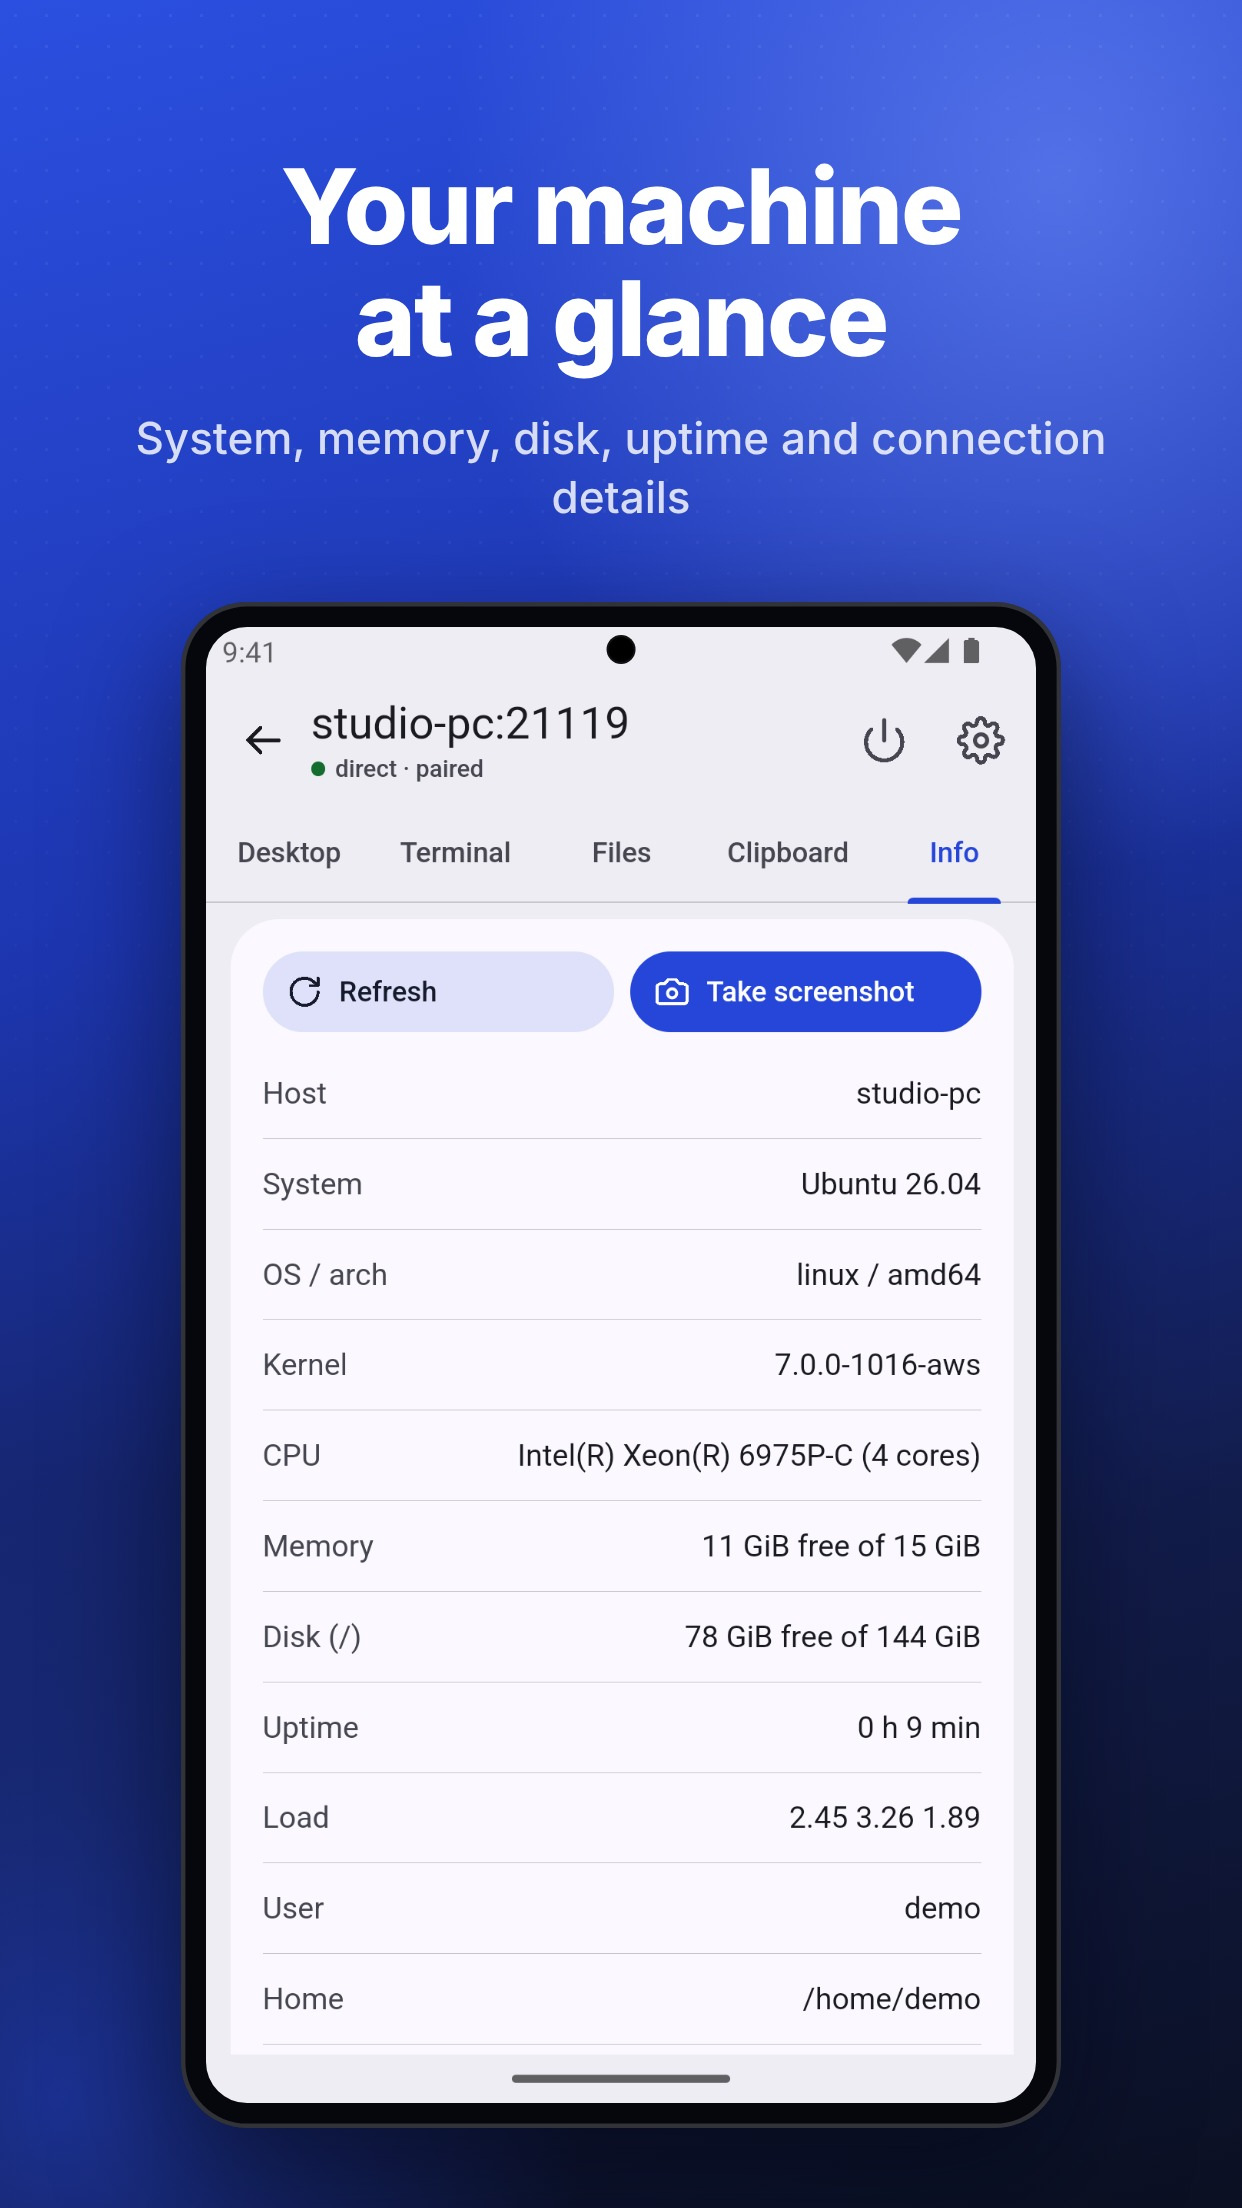
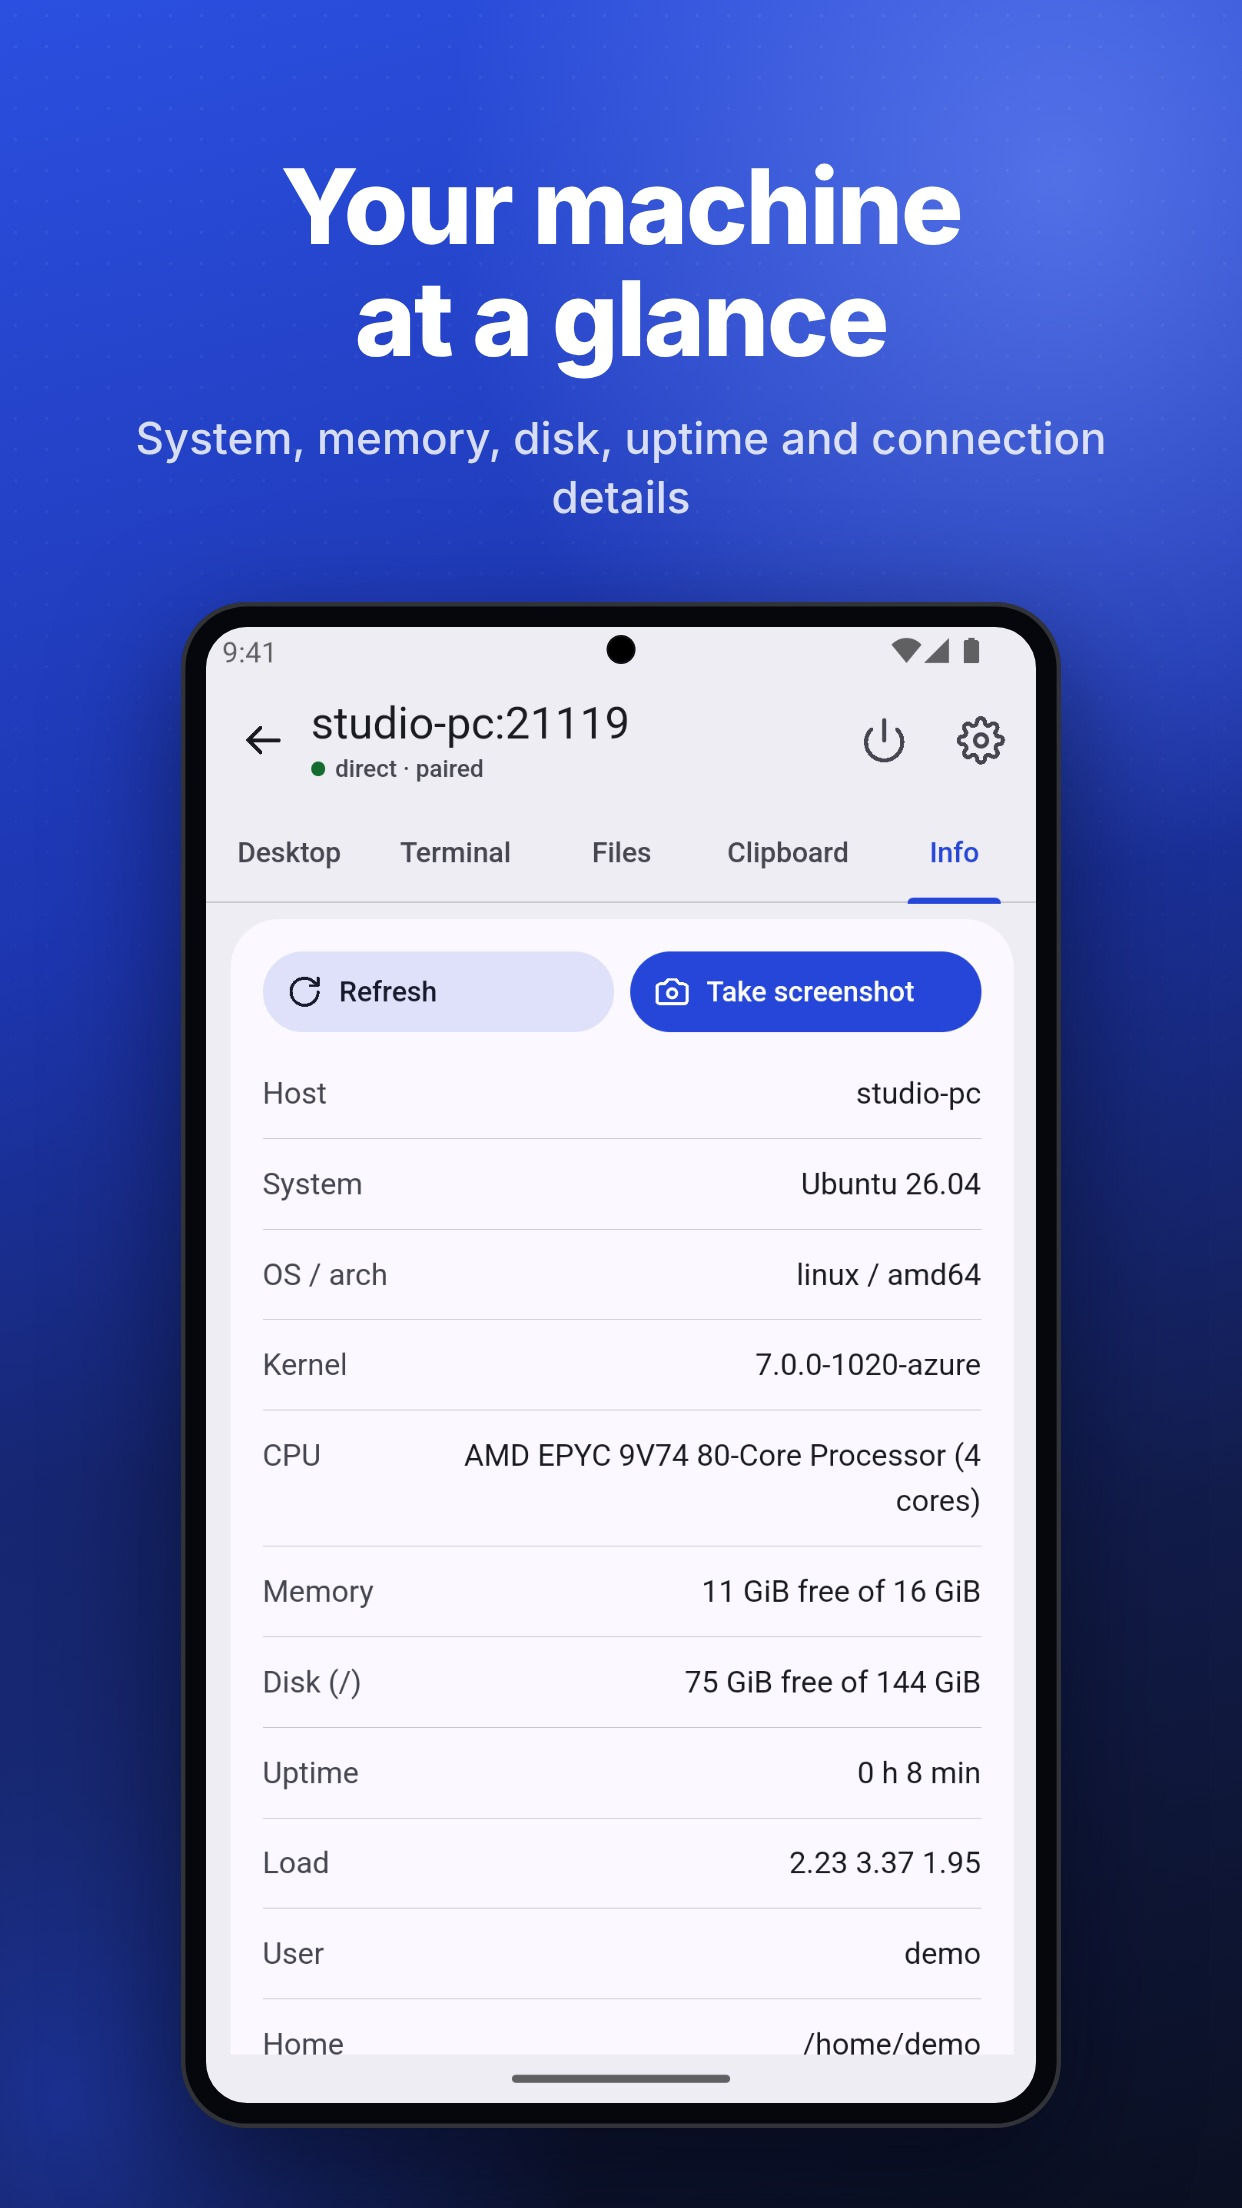
Play posters: captures from CI run 45542352192 (the demo desktop's windows side by side)
Claude-Session: https://claude.ai/code/session_014jsEHinC4ceXZQrRCy7UyV

Changed region(s): [[0.3671, 0.6562, 0.7955, 0.9375], [0.2142, 0.6875, 0.306, 0.9375], [0.6119, 0.5938, 0.7649, 0.625]]

diff --git a/mobile/android/store/art/README.md b/mobile/android/store/art/README.md
@@ -10,7 +10,7 @@ Locales are `en-US` and `zh-CN`.
 
 ## Captures
 
-`src/<locale>/<n>-<screen>.webp` are captures of the real app made by CI, nothing by hand: the CI repository's `sodesk-android.yml` with `screenshots=only` runs `StoreScreenshotsTest` on a 1080 × 1920 emulator against a `remohop host` on a demo machine (host name `studio-pc`, user `demo`, made-up files, an Xvfb desktop), and keeps the PNGs as the artifact `remohop-play-screenshots`. To refresh them, download that artifact and convert:
+`src/<locale>/<n>-<screen>.webp` are captures of the real app made by CI, nothing by hand: the CI repository's `sodesk-android.yml` with `screenshots=only` runs `StoreScreenshotsTest` on a 1080 × 1920 emulator against a `remohop host` on a demo machine (host name `studio-pc`, user `demo`, made-up files, an Xvfb desktop), and keeps the PNGs as the artifact `remohop-play-screenshots` (the set here: test-env-setup run 45542352192). To refresh them, download that artifact and convert:
 
 ```bash
 python3 -c 'import sys,glob,os; from PIL import Image
